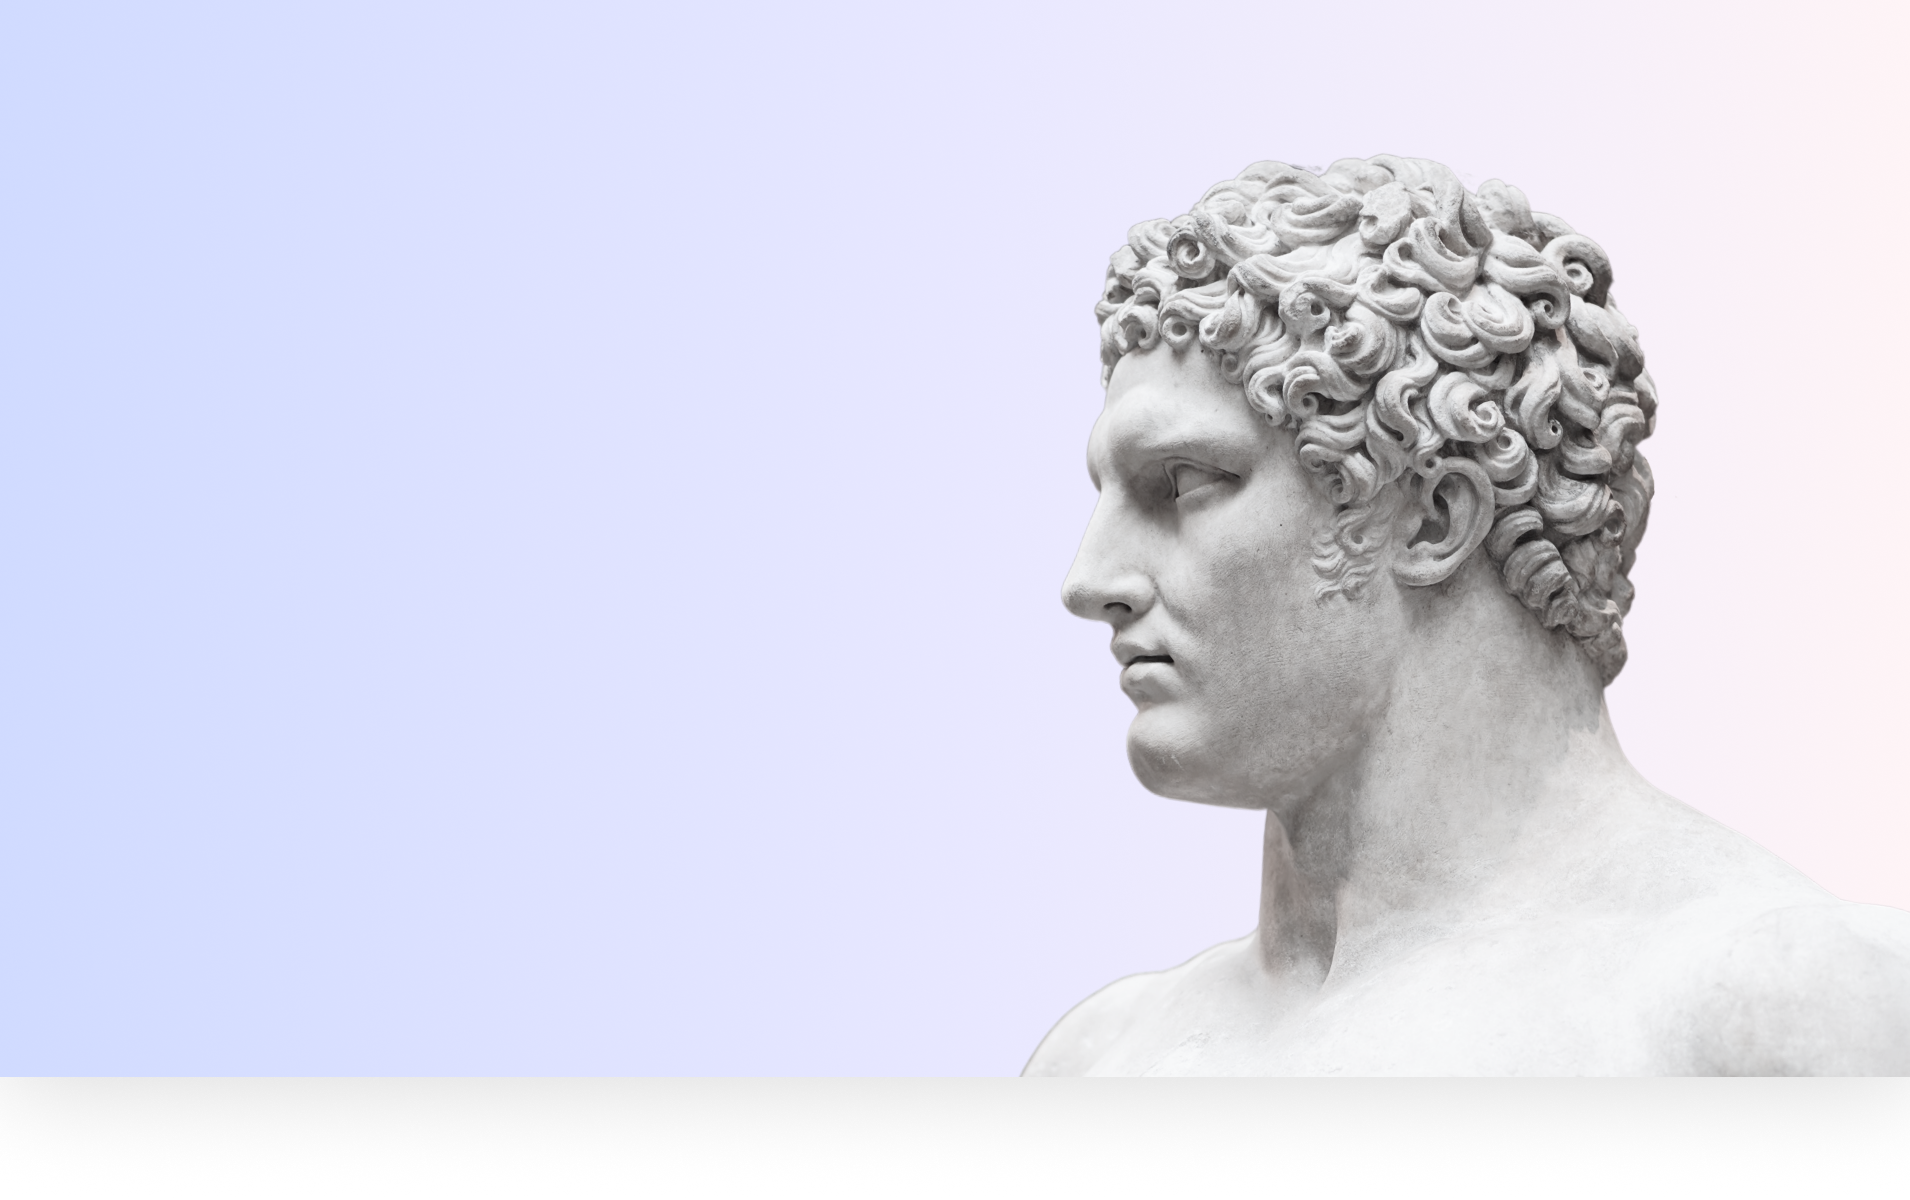
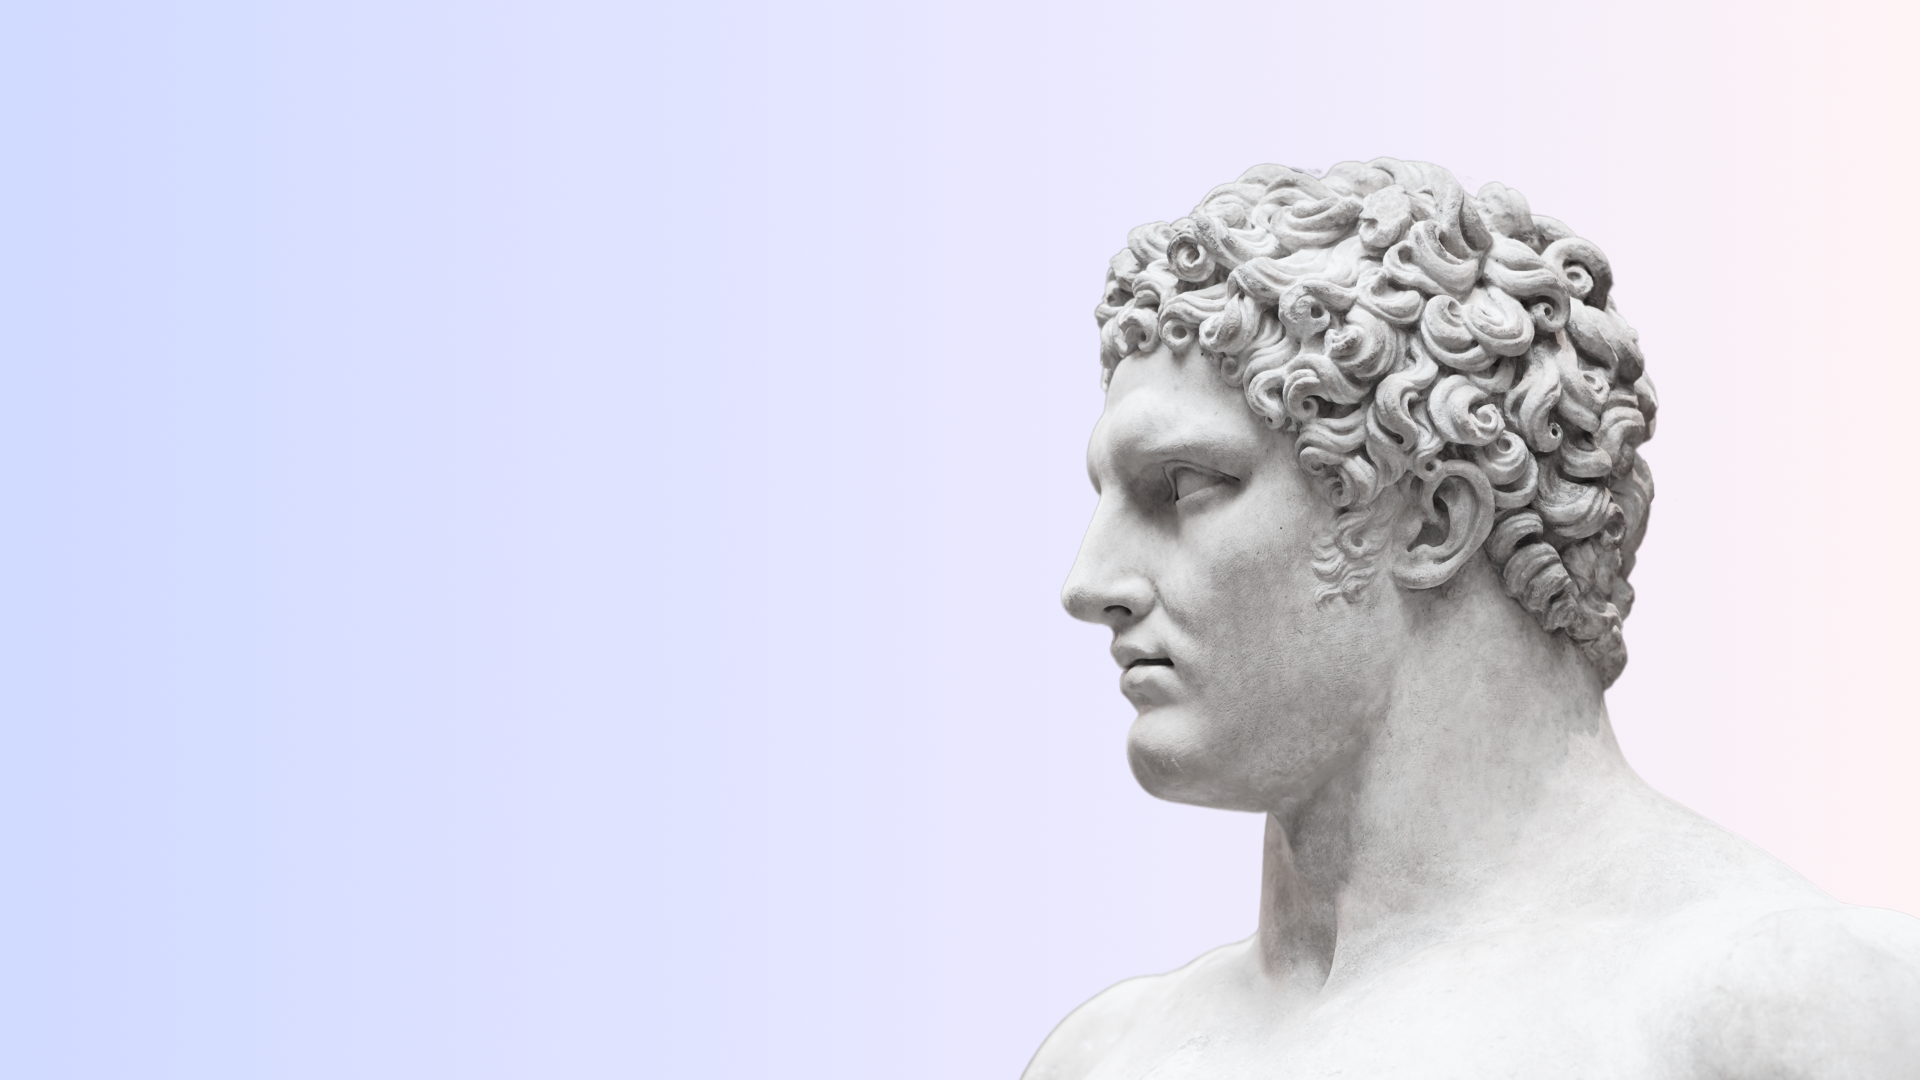
fix header

diff --git a/styles/index.css b/styles/index.css
@@ -6,8 +6,8 @@ body { font-family: "Century Gothic"; background: #D1DBFF; }
 
 .main__opportunities-item, .advantagers__text, .courses__subtitle, .courses__card-title, .contacts__text-title, .contacts__text-content { font-weight: 400; font-size: 1.56em; line-height: 31px; letter-spacing: 0.05em; color: #0A1C26; }
 
-.main__button, .advantagers__button, .courses__card-button, .form__button, .footer__button { font-weight: 700; font-size: 1.875em; letter-spacing: 0.05em; color: #FBFFFF; text-shadow: 0px 4px 4px rgba(0, 0, 0, 0.15); text-decoration: none; background: linear-gradient(94.59deg, #DDCCFF 0%, #B2C3FF 99.99%, #D1DBFF 100%); box-shadow: 4px 4px 8px rgba(0, 0, 0, 0.05); padding: 28px 42px; transition: all 0.3s; border-radius: 10px; }
-.main__button:hover, .advantagers__button:hover, .courses__card-button:hover, .form__button:hover, .footer__button:hover { background-color: linear-gradient(94.59deg, #6C22FF 0%, #5B7FFF 99.99%, #D1DBFF 100%); }
+.main__button, .advantagers__button, .courses__card-button, .form__button, .footer__button { font-weight: 700; font-size: 1.875em; letter-spacing: 0.05em; color: #FBFFFF; text-shadow: 0px 4px 4px rgba(0, 0, 0, 0.15); text-decoration: none; background: linear-gradient(94.59deg, #DDCCFF 0%, #B2C3FF 99.99%, #D1DBFF 100%); box-shadow: 4px 4px 8px rgba(0, 0, 0, 0.05); padding: 28px 42px; transition: all 0.3s; border-radius: 10px; transition: all 0.3s; }
+.main__button:hover, .advantagers__button:hover, .courses__card-button:hover, .form__button:hover, .footer__button:hover { background: linear-gradient(94.59deg, #6C22FF 0%, #5B7FFF 99.99%, #D1DBFF 100%); }
 
 .title { font-weight: 700; font-size: 3.125em; line-height: 105%; letter-spacing: 0.05em; color: #FBFFFF; text-shadow: 0px 4px 4px rgba(0, 0, 0, 0.25); }
 
@@ -46,7 +46,7 @@ body { font-family: "Century Gothic"; background: #D1DBFF; }
 .header__menu-mobile li a { text-decoration: none; color: #FBFFFF; }
 .header__menu-mobile.active { transform: translateX(0%); }
 
-.main { background-image: url("../images/backgrounds/1.png"); background-size: cover; padding-bottom: 250px; }
+.main { background-image: url("../images/backgrounds/1.png"); background-position: 100% top; background-repeat: no-repeat; padding-bottom: 240px; }
 .main main { padding: 100px 0px 0px; }
 .main__opportunities { list-style: none; margin-top: 45px; }
 .main__opportunities-item { position: relative; margin-top: 20px; margin-left: 25px; }
@@ -69,11 +69,12 @@ body { font-family: "Century Gothic"; background: #D1DBFF; }
 .program { position: relative; padding: 175px 0px 175px; margin-top: -20px; }
 .program__title { text-align: center; }
 .program__cards { display: flex; align-items: stretch; justify-content: space-between; margin-top: 45px; }
-.program__cards-item { background: linear-gradient(94.81deg, rgba(255, 255, 255, 0.6) 0%, rgba(255, 255, 255, 0.3) 100%); border: 1px solid #FBFFFF; padding: 20px 15px; text-align: center; height: auto; box-shadow: 0px 4px 6px rgba(0, 0, 0, 0.1); border-radius: 10px; }
-.program__card { min-height: 370px; }
+.program__cards-item { background: linear-gradient(94.81deg, rgba(255, 255, 255, 0.6) 0%, rgba(255, 255, 255, 0.3) 100%); border: 1px solid #FBFFFF; padding: 20px 15px; text-align: center; height: auto; border-radius: 10px; }
+.program__card { min-height: 370px; transition: all 0.3s; }
 .program__card-title { font-weight: 700; font-size: 1.875em; text-align: center; letter-spacing: 0.05em; margin-top: 17px; }
 .program__card-content { font-weight: 400; font-size: 1.125em; line-height: 22px; letter-spacing: 0.05em; color: #5E5E5E; margin-top: 20px; max-width: 308px; }
 .program__card-icon { width: 90px; height: 90px; }
+.program__card:hover { box-shadow: 0px 4px 6px rgba(0, 0, 0, 0.1); }
 .program__swiper-nav { display: none; z-index: 500; }
 .program .swiper-slide { transform: scale(1); }
 .program .swiper-slide::before { display: none; }
@@ -86,7 +87,7 @@ body { font-family: "Century Gothic"; background: #D1DBFF; }
 .courses__subtitle { max-width: 960px; text-align: end; margin-left: auto; margin-top: 50px; }
 .courses__swiper { width: 100%; overflow: hidden; }
 .courses__pagination { display: none; }
-.courses__cards { margin-top: 85px; padding: 50px 0px; }
+.courses__cards { margin-top: 35px; padding: 50px 20px; }
 .courses__cards-item { background: linear-gradient(94.81deg, rgba(255, 255, 255, 0.24) 0%, rgba(255, 255, 255, 0.12) 100%); box-shadow: 0px 0px 46px rgba(0, 0, 0, 0.15), 0px 1px 7px rgba(255, 255, 255, 0.25); backdrop-filter: blur(15px); border-radius: 10px; display: flex; align-items: center; padding-left: 45px; }
 .courses__cards .swiper-slide-active { display: flex; justify-content: center; }
 .courses__card { position: relative; overflow: hidden; }
@@ -122,13 +123,15 @@ body { font-family: "Century Gothic"; background: #D1DBFF; }
 .form__input:first-child { margin-top: 0; }
 .form__input::placeholder { color: #9B9B9B; text-transform: uppercase; }
 .form__policity { margin-top: 20px; font-weight: 400; font-size: 15px; line-height: 18px; text-align: center; letter-spacing: 0.05em; color: #939393; }
+.form__policity a { color: #939393; text-decoration-color: #939393; }
 
 .footer { padding-bottom: 90px; }
 .footer__wrapper { border-top: 3px solid white; padding-top: 55px; }
 .footer__content { padding-top: 1px solid white; display: flex; align-items: start; justify-content: space-between; margin-top: 20px; }
 .footer__content ul li { font-weight: 400; font-size: 18px; line-height: 22px; color: rgba(0, 0, 0, 0.7); margin-top: 20px; }
 .footer__content ul li:first-child { margin-top: 0; }
-.footer__content ul li a { font-weight: 400; font-size: 18px; line-height: 22px; color: rgba(0, 0, 0, 0.7); text-decoration: none; }
+.footer__content ul li a { font-weight: 400; font-size: 18px; line-height: 22px; color: rgba(0, 0, 0, 0.7); text-decoration: none; transition: all 0.3s; }
+.footer__content ul li a:hover { background: linear-gradient(94.59deg, #AF87FF 0%, #5B7FFF 99.99%, #D1DBFF 100%); -webkit-background-clip: text; -webkit-text-fill-color: transparent; background-clip: text; text-fill-color: transparent; }
 .footer__content-wrap { display: flex; align-items: start; justify-content: space-between; gap: 90px; }
 .footer__policity { max-width: 380px; margin-top: 50px; font-weight: 400; font-size: 18px; line-height: 22px; letter-spacing: 0.05em; color: rgba(10, 28, 38, 0.7); }
 .footer__contacts { margin-top: 20px; }
@@ -157,7 +160,8 @@ body { font-family: "Century Gothic"; background: #D1DBFF; }
   .advantagers__cards { grid-gap: 30px; }
   .advantagers__card-content { max-height: 100%; }
   .advantagers__content { max-width: 550px; }
-  .advantagers__text { font-size: 18px; line-height: 22px; } }
+  .advantagers__text { font-size: 18px; line-height: 22px; }
+  .team__info-title { font-size: 20px; } }
 @media (max-width: 1250px) { .header__menu-mobile { display: flex; }
   .burger { display: block !important; }
   .advantagers__wrapper { flex-direction: column; justify-content: center; }

diff --git a/index.html b/index.html
@@ -27,7 +27,7 @@
                         <nav class="header__nav">
                             <ul class="header__menu">
                                 <li class="header__menu-item">
-                                    <a href="/" class="header__menu-link">Каталог курсов</a>
+                                    <a href="#courses" class="header__menu-link">Каталог курсов</a>
                                     <ul class="dropdown">
                                         <li>
                                             <a href="">Юрист по работе с инфобизнесоми онлайн школами</a>
@@ -85,7 +85,7 @@
                     <li class="main__opportunities-item">Смените специализацию</li>
                     <li class="main__opportunities-item">Ваш доход вырастет автоматически</li>
                 </ul>
-                <a href="/" class="main__button ">Смотреть курсы</a>
+                <a href="#courses" class="main__button ">Смотреть курсы</a>
             </main>
         </div>
     </section>
@@ -101,7 +101,7 @@
                                 практическую
                                 направленность. Вы научитесь и сможете применять свои знания уже в процессе обучения.
                             </div>
-                            <a href="/" class="advantagers__button">Познакомиться</a>
+                            <a href="/about" class="advantagers__button">Познакомиться</a>
                         </div>
                         <div class="advantagers__cards">
                             <div class="advantagers__cards-item advantagers__card">
@@ -289,7 +289,7 @@
             </div>
         </div>
     </section>
-    <section class="courses">
+    <section class="courses" id="courses">
         <div class="container">
             <div class="courses__wrapper">
                 <h3 class="courses__title title">Выберите курс, который вам подходит</h3>
@@ -339,7 +339,7 @@
                                     </div>
                                     <a href="/" class="courses__card-button">Подробнее</a>
                                 </div>
-                                <img src="./images/courses/1.png" alt="" class="courses__card-img">
+                                <img src="./images/courses/2.png" alt="" class="courses__card-img">
                             </div>
                         </div>
                         <div class="swiper-slide">
@@ -361,7 +361,7 @@
                                     </div>
                                     <a href="/" class="courses__card-button">Подробнее</a>
                                 </div>
-                                <img src="./images/courses/1.png" alt="" class="courses__card-img">
+                                <img src="./images/courses/3.png" alt="" class="courses__card-img">
                             </div>
                         </div>
                     </div>
@@ -387,8 +387,8 @@
                     <input type="text" class="form__input" placeholder="телефон">
                     <input type="text" class="form__input" placeholder="сообщение">
                     <button class="form__button">Отправить</button>
-                    <div class="form__policity">Нажимая на кнопку, вы даёте согласие на обработку своих персональных
-                        данных</div>
+                    <div class="form__policity">Нажимая на кнопку, вы даёте согласие на <a href=""> обработку своих персональных
+                        данных</a></div>
                 </form>
             </div>
         </div>

diff --git a/styles/index.sass b/styles/index.sass
@@ -35,8 +35,9 @@ body
     padding: 28px 42px
     transition: all .3s
     border-radius: 10px
+    transition: all .3s
     &:hover
-        background-color: linear-gradient(94.59deg, #6C22FF 0%, #5B7FFF 99.99%, #D1DBFF 100%)
+        background: linear-gradient(94.59deg, #6C22FF 0%, #5B7FFF 99.99%, #D1DBFF 100%)
 
 %title
     font-weight: 700
@@ -216,12 +217,13 @@ body
             text-decoration: none
             color: #FBFFFF
     &.active
-        transform: translateX(0%) 
+        transform: translateX(0%)
 
 .main
     background-image: url('../images/backgrounds/1.png')
-    background-size: cover
-    padding-bottom: 250px
+    background-position: 100% top
+    background-repeat: no-repeat
+    padding-bottom: 240px
     & main
         padding: 100px 0px 0px
     &__opportunities
@@ -336,11 +338,12 @@ body
             padding: 20px 15px
             text-align: center
             height: auto
-            box-shadow: 0px 4px 6px rgba(0, 0, 0, 0.1)
+
             border-radius: 10px
 
     &__card
         min-height: 370px
+        transition: all .3s
         &-title
             font-weight: 700
             font-size: 1.875em
@@ -358,6 +361,8 @@ body
         &-icon
             width: 90px
             height: 90px
+        &:hover
+            box-shadow: 0px 4px 6px rgba(0, 0, 0, 0.1)
 
     &__swiper
         &-nav
@@ -404,8 +409,8 @@ body
 
     &__cards
 
-        margin-top: 85px
-        padding: 50px 0px
+        margin-top: 35px
+        padding: 50px 20px
         &-item
             background: linear-gradient(94.81deg, rgba(255, 255, 255, 0.24) 0%, rgba(255, 255, 255, 0.12) 100%)
             box-shadow: 0px 0px 46px rgba(0, 0, 0, 0.15), 0px 1px 7px rgba(255, 255, 255, 0.25)
@@ -587,6 +592,9 @@ body
         text-align: center
         letter-spacing: 0.05em
         color: #939393
+        a
+            color: #939393
+            text-decoration-color: #939393
 
 .footer
     padding-bottom: 90px
@@ -614,6 +622,13 @@ body
                     line-height: 22px
                     color: rgba(0, 0, 0, 0.7)
                     text-decoration: none
+                    transition: all .3s
+                    &:hover
+                        background: linear-gradient(94.59deg, #AF87FF 0%, #5B7FFF 99.99%, #D1DBFF 100%)
+                        -webkit-background-clip: text
+                        -webkit-text-fill-color: transparent
+                        background-clip: text
+                        text-fill-color: transparent
         &-wrap
             display: flex
             align-items: start
@@ -658,10 +673,12 @@ body
     margin-top: 30px
     display: flex
     align-items: center
+
     &__text
         margin-left: 10px
         font-family: "Montserrat"
         font-weight: 500
+
 .seat
     margin-top: 15px
     display: flex
@@ -719,6 +736,8 @@ body
         &__text
             font-size: 18px
             line-height: 22px
+    .team__info-title
+        font-size: 20px
 
 @media (max-width: 1250px)
     .header__menu-mobile
@@ -930,7 +949,6 @@ body
         &__wrapper
             flex-direction: column
             gap: 30px
-    
 
 @media (max-width: 650px)
     .container

diff --git a/js/main.js b/js/main.js
@@ -22,7 +22,25 @@ document.addEventListener("DOMContentLoaded", () => {
     );
   });
   burger.addEventListener("click", () => {
-      menu.classList.toggle('active')
-      burger.classList.toggle('active')
+    menu.classList.toggle("active");
+    burger.classList.toggle("active");
   });
+  const scrollToAnchor = (e) => {
+    const { target } = e;
+    const { href } = target;
+    if (href) {
+      const isAnchor = href.indexOf("#");
+      if (isAnchor !== -1) {
+        console.log(href);
+        e.preventDefault();
+        const id = href.substring(isAnchor + 1);
+        const elem = document.getElementById(id);
+        window.scrollTo({
+          behavior: "smooth",
+          top: elem.getBoundingClientRect().top + document.body.scrollTop,
+        });
+      }
+    }
+  };
+  window.addEventListener("click", scrollToAnchor);
 });
